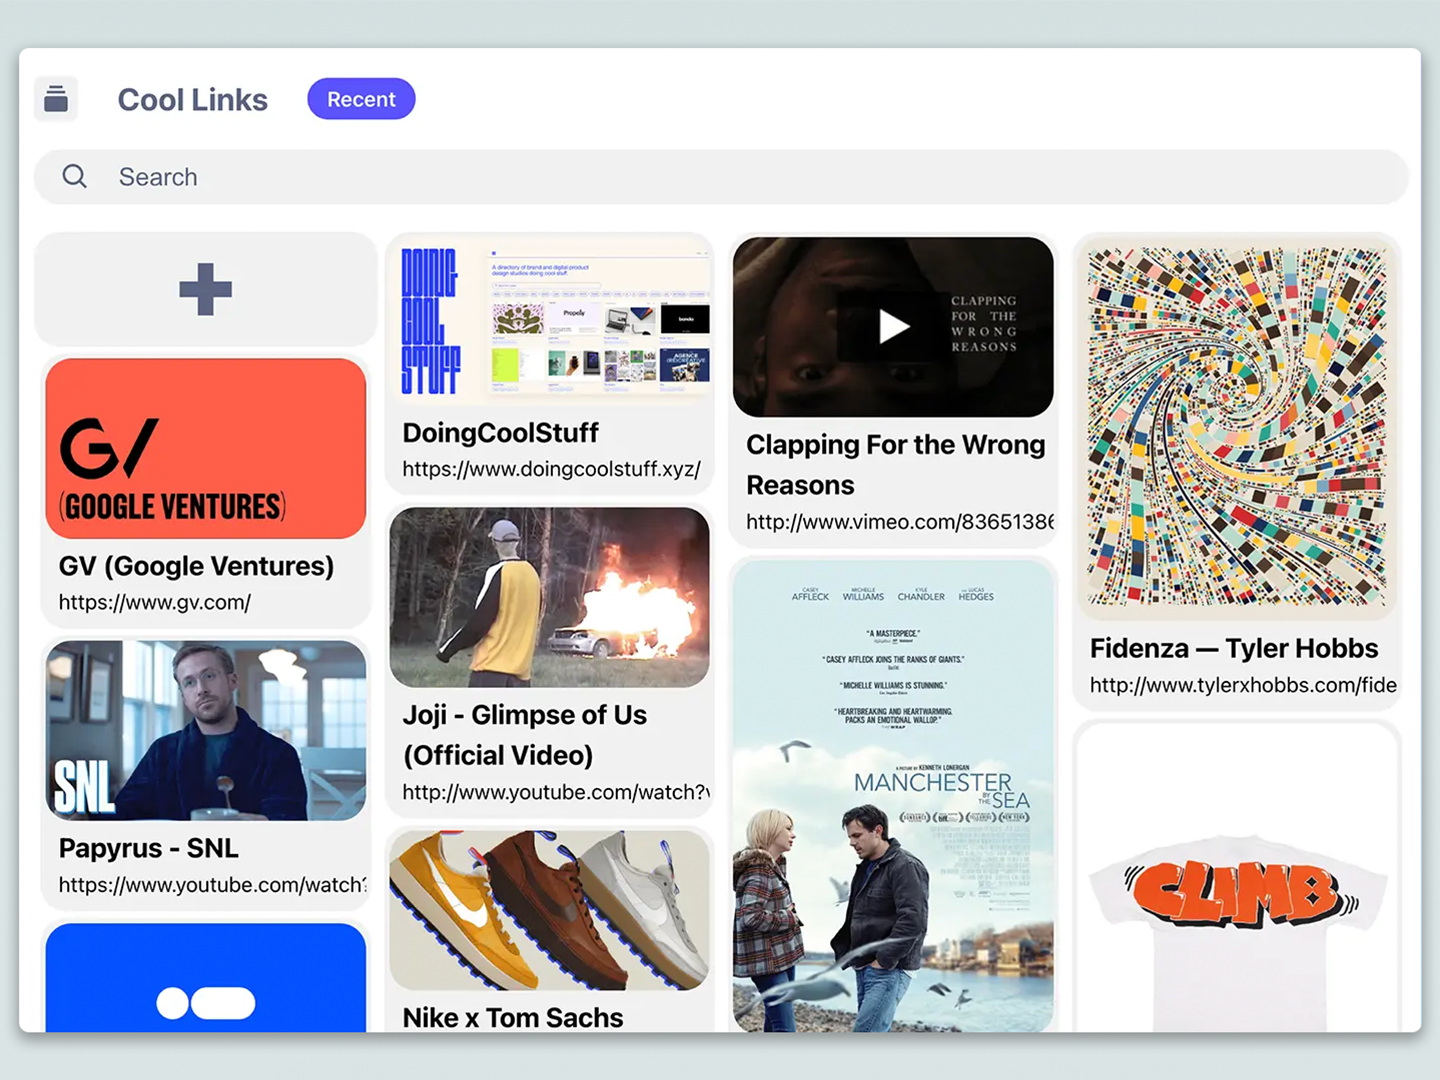
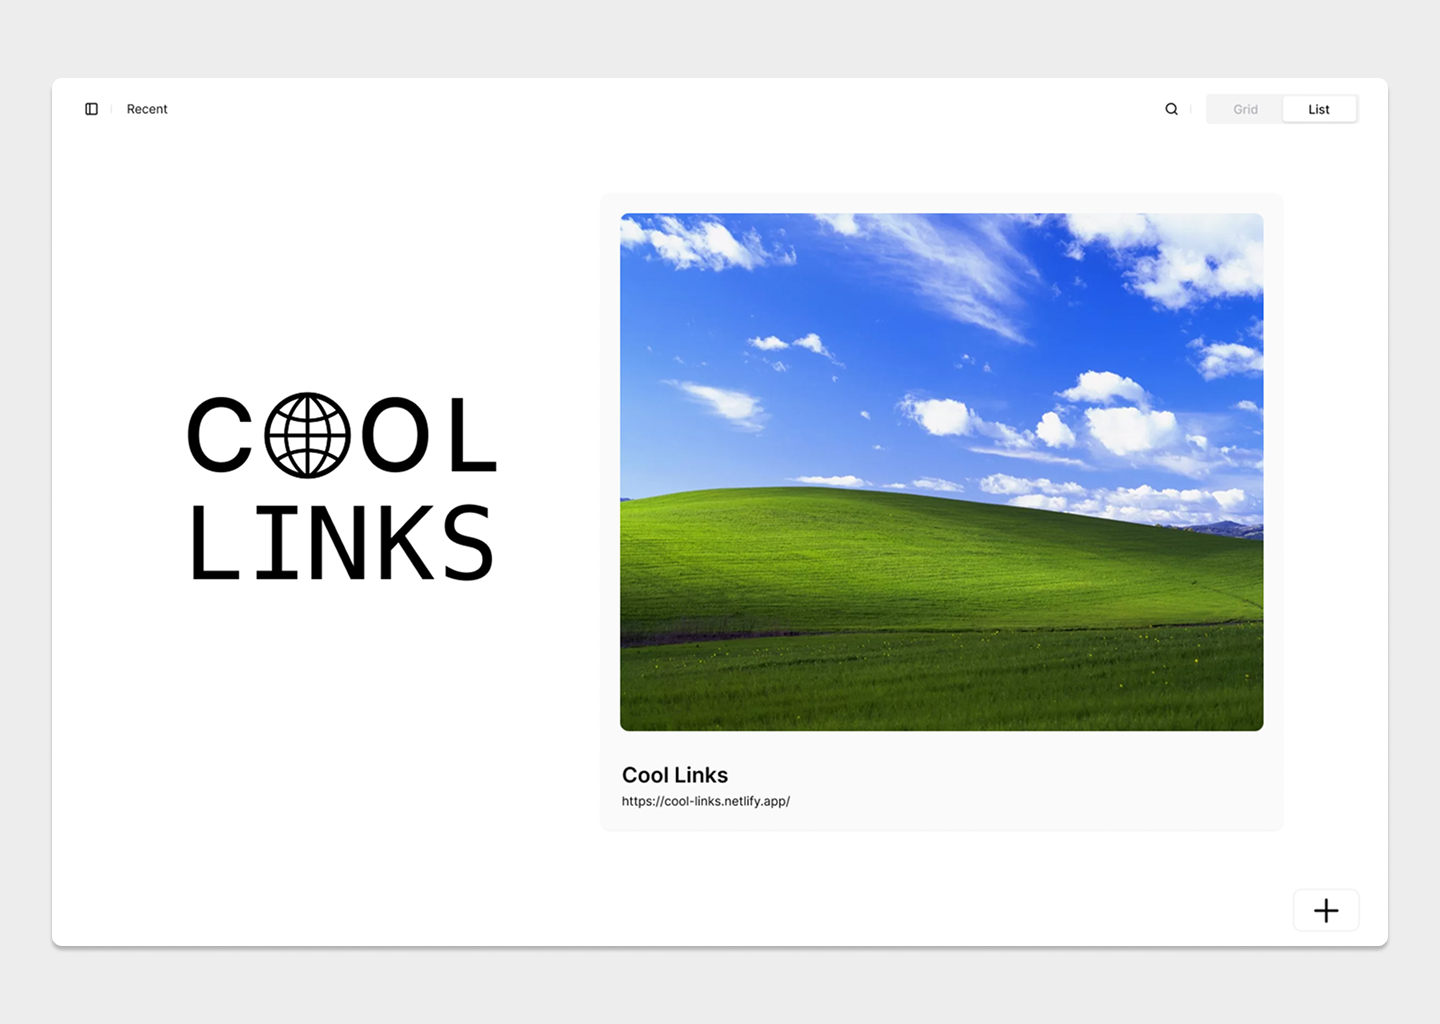
update cool links project

diff --git a/src/modules/projectInfo.ts b/src/modules/projectInfo.ts
@@ -1,38 +1,39 @@
 // import project images
-import CoolLinks1 from '../assets/projectImg/CoolLinks1.png';
-import CoolLinks2 from '../assets/projectImg/CoolLinks2.png';
-import CoolLinks3 from '../assets/projectImg/CoolLinks3.png';
+import CoolLinks1 from "../assets/projectImg/CoolLinks1.png";
+import CoolLinks2 from "../assets/projectImg/CoolLinks2.png";
+import CoolLinks3 from "../assets/projectImg/CoolLinks3.png";
+import CoolLinks4 from "../assets/projectImg/CoolLinks4.png";
 
-import Fafnir1 from '../assets/projectImg/Fafnir1.webp';
-import Fafnir2 from '../assets/projectImg/Fafnir2.webp';
-import Fafnir3 from '../assets/projectImg/Fafnir3.webp';
-import Fafnir4 from '../assets/projectImg/Fafnir4.webp';
+import Fafnir1 from "../assets/projectImg/Fafnir1.webp";
+import Fafnir2 from "../assets/projectImg/Fafnir2.webp";
+import Fafnir3 from "../assets/projectImg/Fafnir3.webp";
+import Fafnir4 from "../assets/projectImg/Fafnir4.webp";
 
-import FeeEstimate1 from '../assets/projectImg/FeeEstimate1.png';
-import FeeEstimate2 from '../assets/projectImg/FeeEstimate2.png';
-import FeeEstimate3 from '../assets/projectImg/FeeEstimate3.png';
+import FeeEstimate1 from "../assets/projectImg/FeeEstimate1.png";
+import FeeEstimate2 from "../assets/projectImg/FeeEstimate2.png";
+import FeeEstimate3 from "../assets/projectImg/FeeEstimate3.png";
 
 //import Library1 from '../assets/projectImg/Library1.webp';
 //import Library2 from '../assets/projectImg/Library2.webp';
 
-import Maps1 from '../assets/projectImg/Maps1.webp';
-import Maps2 from '../assets/projectImg/Maps2.webp';
-import Maps3 from '../assets/projectImg/Maps3.webp';
+import Maps1 from "../assets/projectImg/Maps1.webp";
+import Maps2 from "../assets/projectImg/Maps2.webp";
+import Maps3 from "../assets/projectImg/Maps3.webp";
 
-import Streamer1 from '../assets/projectImg/Streamer1.png';
-import Streamer2 from '../assets/projectImg/Streamer2.png';
-import Streamer3 from '../assets/projectImg/Streamer3.png';
-import Streamer4 from '../assets/projectImg/Streamer4.png';
+import Streamer1 from "../assets/projectImg/Streamer1.png";
+import Streamer2 from "../assets/projectImg/Streamer2.png";
+import Streamer3 from "../assets/projectImg/Streamer3.png";
+import Streamer4 from "../assets/projectImg/Streamer4.png";
 
 //import ToDoList1 from '../assets/projectImg/ToDoList1.png';
 //import ToDoList2 from '../assets/projectImg/ToDoList2.png';
 //import ToDoList3 from '../assets/projectImg/ToDoList3.png';
 //import ToDoList4 from '../assets/projectImg/ToDoList4.png';
 
-import WNBA1 from '../assets/projectImg/WNBA1.png';
-import WNBA2 from '../assets/projectImg/WNBA2.png';
-import WNBA3 from '../assets/projectImg/WNBA3.png';
-import WNBA4 from '../assets/projectImg/WNBA4.png';
+import WNBA1 from "../assets/projectImg/WNBA1.png";
+import WNBA2 from "../assets/projectImg/WNBA2.png";
+import WNBA3 from "../assets/projectImg/WNBA3.png";
+import WNBA4 from "../assets/projectImg/WNBA4.png";
 
 export interface Project {
     id: string;
@@ -43,46 +44,49 @@ export interface Project {
     code: string;
     src: string[];
 }
-  
+
 const projectInfo: Project[] = [
-    {   id: 'wnba-swish',
-        name: 'wnba swish',
+    {
+        id: "wnba-swish",
+        name: "wnba swish",
         description: `WNBA Swish is a web application that provides up-to-date information on WNBA games, including team stats, player stats, schedules, scores, and standings. The app aims to offer a comprehensive view of the current 2024 WNBA season, making it easy for fans to stay informed about their favorite teams and players.
 
         My personal favorite team is the Las Vegas Aces. Let's get a three-peat!`,
-        tech: 'React, TypeScript, JavaScript, Tailwind, Express, Node.js, PostgreSQL, Vite, Swiper.js, D3.js, React-Router-DOM, Framer Motion',
-        livePreview: 'https://wnba-swish.vercel.app/',
-        code: 'https://github.com/paigebraun/wnba-swish',
-        src: [WNBA1, WNBA2, WNBA3, WNBA4]
+        tech: "React, TypeScript, JavaScript, Tailwind, Express, Node.js, PostgreSQL, Vite, Swiper.js, D3.js, React-Router-DOM, Framer Motion",
+        livePreview: "https://wnba-swish.vercel.app/",
+        code: "https://github.com/paigebraun/wnba-swish",
+        src: [WNBA1, WNBA2, WNBA3, WNBA4],
     },
     {
-        id: 'streamer',
-        name: 'streamer',
+        id: "streamer",
+        name: "streamer",
         description: `A full-stack application designed to simplify your search for movies and TV shows across various streaming platforms. Streamer provides up-to-date information on where each movie or TV show is available for streaming, ensuring you never miss out on your next binge-worthy experience. 
       
         Create an account to save your favorite titles and organize them into a personalized watchlist for easy access. Dive deep into each title with detailed information such as synopsis, trailer, director, and cast members. The intuitive design makes it simple to navigate and explore a vast library of content.`,
-        tech: 'React, JavaScript, Tailwind, Express, Node.js, MongoDB, Mongoose, Vite, Passport, Bcrypt.js, React-Router-DOM, React-Toastify, Framer Motion, TMDB API',
-        livePreview: 'https://streamer-tqxz.onrender.com/',
-        code: 'https://github.com/paigebraun/streamer',
-        src: [Streamer1, Streamer2, Streamer3, Streamer4]
+        tech: "React, JavaScript, Tailwind, Express, Node.js, MongoDB, Mongoose, Vite, Passport, Bcrypt.js, React-Router-DOM, React-Toastify, Framer Motion, TMDB API",
+        livePreview: "https://streamer-tqxz.onrender.com/",
+        code: "https://github.com/paigebraun/streamer",
+        src: [Streamer1, Streamer2, Streamer3, Streamer4],
     },
     {
-        id: 'mortgage-fee-estimator',
-        name: 'mortgage fee estimator',
-        description: 'An application built for 1st Alliance Mortgage to allow loan officers to quickly and easily create and share fee estimates for potential borrowers. Loan officers at 1st Alliance Mortgage wanted something they could use on the go which is why I developed the site first with a mobile layout in mind. The app uses the information from the form to create a custom fee estimate pdf that can be downloaded or shared directly with clients.',
-        tech: 'React, TypeScript, Tailwind, Vite, PDF-LIB, React-Hook-Form, React-Select, Framer Motion',
-        livePreview: 'https://paigebraun.github.io/1stam-fee-estimate/',
-        code: 'https://github.com/paigebraun/1stam-fee-estimate',
-        src: [FeeEstimate1, FeeEstimate2, FeeEstimate3]
+        id: "mortgage-fee-estimator",
+        name: "mortgage fee estimator",
+        description:
+            "An application built for 1st Alliance Mortgage to allow loan officers to quickly and easily create and share fee estimates for potential borrowers. Loan officers at 1st Alliance Mortgage wanted something they could use on the go which is why I developed the site first with a mobile layout in mind. The app uses the information from the form to create a custom fee estimate pdf that can be downloaded or shared directly with clients.",
+        tech: "React, TypeScript, Tailwind, Vite, PDF-LIB, React-Hook-Form, React-Select, Framer Motion",
+        livePreview: "https://paigebraun.github.io/1stam-fee-estimate/",
+        code: "https://github.com/paigebraun/1stam-fee-estimate",
+        src: [FeeEstimate1, FeeEstimate2, FeeEstimate3],
     },
     {
-        id: 'cool-links',
-        name: 'cool links',
-        description: 'A simple tool for saving captivating links discovered across the the internet for easy access in the future. Categorize these links into collections and locate your saved links using intuitive keyword searches.',
-        tech: 'React, JavaScript, HTML, CSS, Vite, Web Storage API, Link Preview API',
-        livePreview: 'https://cool-links.netlify.app/',
-        code: 'https://github.com/paigebraun/cool-links',
-        src: [CoolLinks1, CoolLinks2, CoolLinks3]
+        id: "cool-links",
+        name: "cool links",
+        description:
+            "A simple tool for saving captivating links discovered across the the internet for easy access in the future. Categorize these links into collections and locate your saved links using intuitive keyword searches.",
+        tech: "Typescript, React, Shadcn, Tailwind, Vite, Link Preview API",
+        livePreview: "https://cool-links.netlify.app/",
+        code: "https://github.com/paigebraun/cool-links-v2",
+        src: [CoolLinks1, CoolLinks2, CoolLinks3, CoolLinks4],
     },
     /*{
         id: 'to-do-list',
@@ -94,21 +98,23 @@ const projectInfo: Project[] = [
         src: [ToDoList1, ToDoList2, ToDoList3, ToDoList4]
     },*/
     {
-        id: 'jazzberry-blue-maps',
-        name: 'jazzberry blue maps',
-        description: 'A recreation of maps designed by artist Jazzberry Blue with code. The program takes in shape layers and intricate coordinate data, transforms all intersecting streets into polygons, and randomly fills those polygons with a pre-defined selection of colors.',
-        tech: 'Python, Matplotlib, GeoPandas, Shapely, NumPy',
-        code: 'https://github.com/paigebraun/Maps',
-        src: [Maps1, Maps2, Maps3]
+        id: "jazzberry-blue-maps",
+        name: "jazzberry blue maps",
+        description:
+            "A recreation of maps designed by artist Jazzberry Blue with code. The program takes in shape layers and intricate coordinate data, transforms all intersecting streets into polygons, and randomly fills those polygons with a pre-defined selection of colors.",
+        tech: "Python, Matplotlib, GeoPandas, Shapely, NumPy",
+        code: "https://github.com/paigebraun/Maps",
+        src: [Maps1, Maps2, Maps3],
     },
     {
-        id: 'fafnirs-dragon',
+        id: "fafnirs-dragon",
         name: "fafnir's dragon",
-        description: 'A 2D platform game created as part of a semester long class with two classmates. The game implements two playing levels for users to choose from and has a high score ranking at the end of each play. Maneuver through intricately designed environments and beat the final boss to win the game.',
-        tech: 'JavaScript, HTML, CSS, Phaser 3, TileMaps',
-        livePreview: 'https://paigebraun.github.io/fafnirs-dragon/',
-        code: 'https://github.com/paigebraun/fafnirs-dragon',
-        src: [Fafnir1, Fafnir2, Fafnir3, Fafnir4]
+        description:
+            "A 2D platform game created as part of a semester long class with two classmates. The game implements two playing levels for users to choose from and has a high score ranking at the end of each play. Maneuver through intricately designed environments and beat the final boss to win the game.",
+        tech: "JavaScript, HTML, CSS, Phaser 3, TileMaps",
+        livePreview: "https://paigebraun.github.io/fafnirs-dragon/",
+        code: "https://github.com/paigebraun/fafnirs-dragon",
+        src: [Fafnir1, Fafnir2, Fafnir3, Fafnir4],
     },
     /*{
         id: 'skeuomorphic-library',
@@ -119,8 +125,6 @@ const projectInfo: Project[] = [
         code: 'https://github.com/paigebraun/library',
         src: [Library1, Library2]
     },*/
-    
 ];
-  
+
 export default projectInfo;
-  
